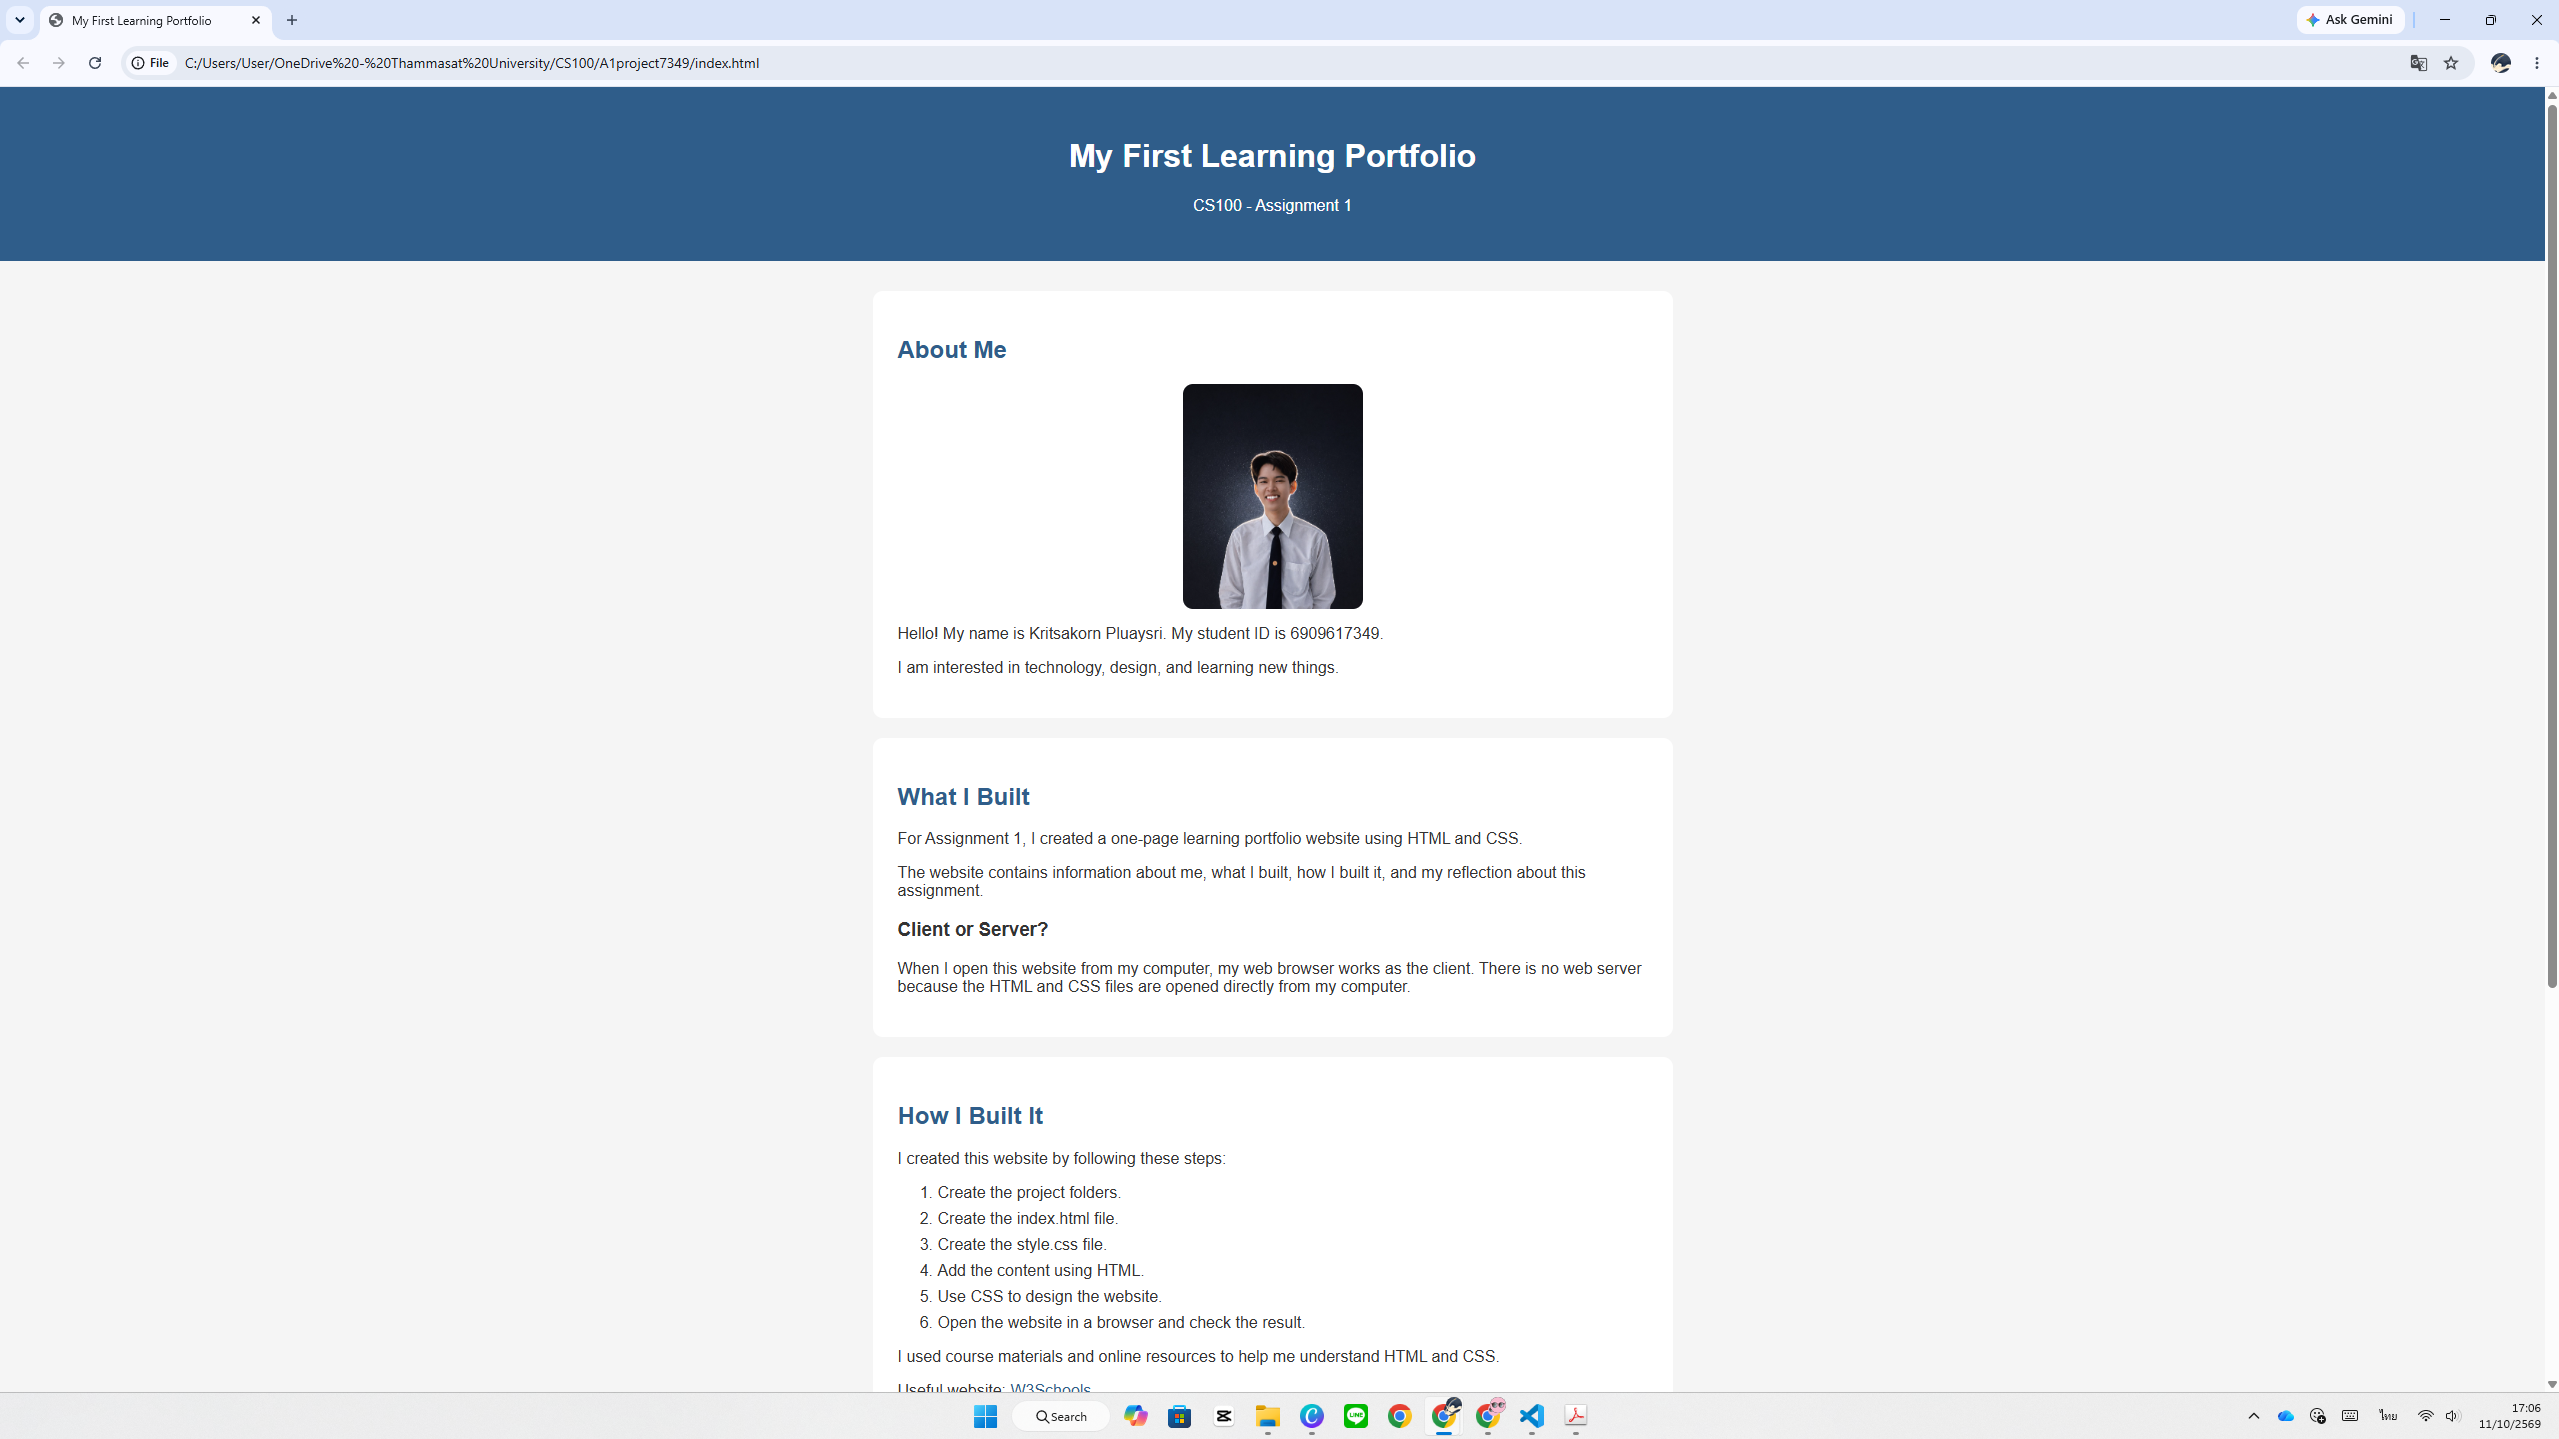
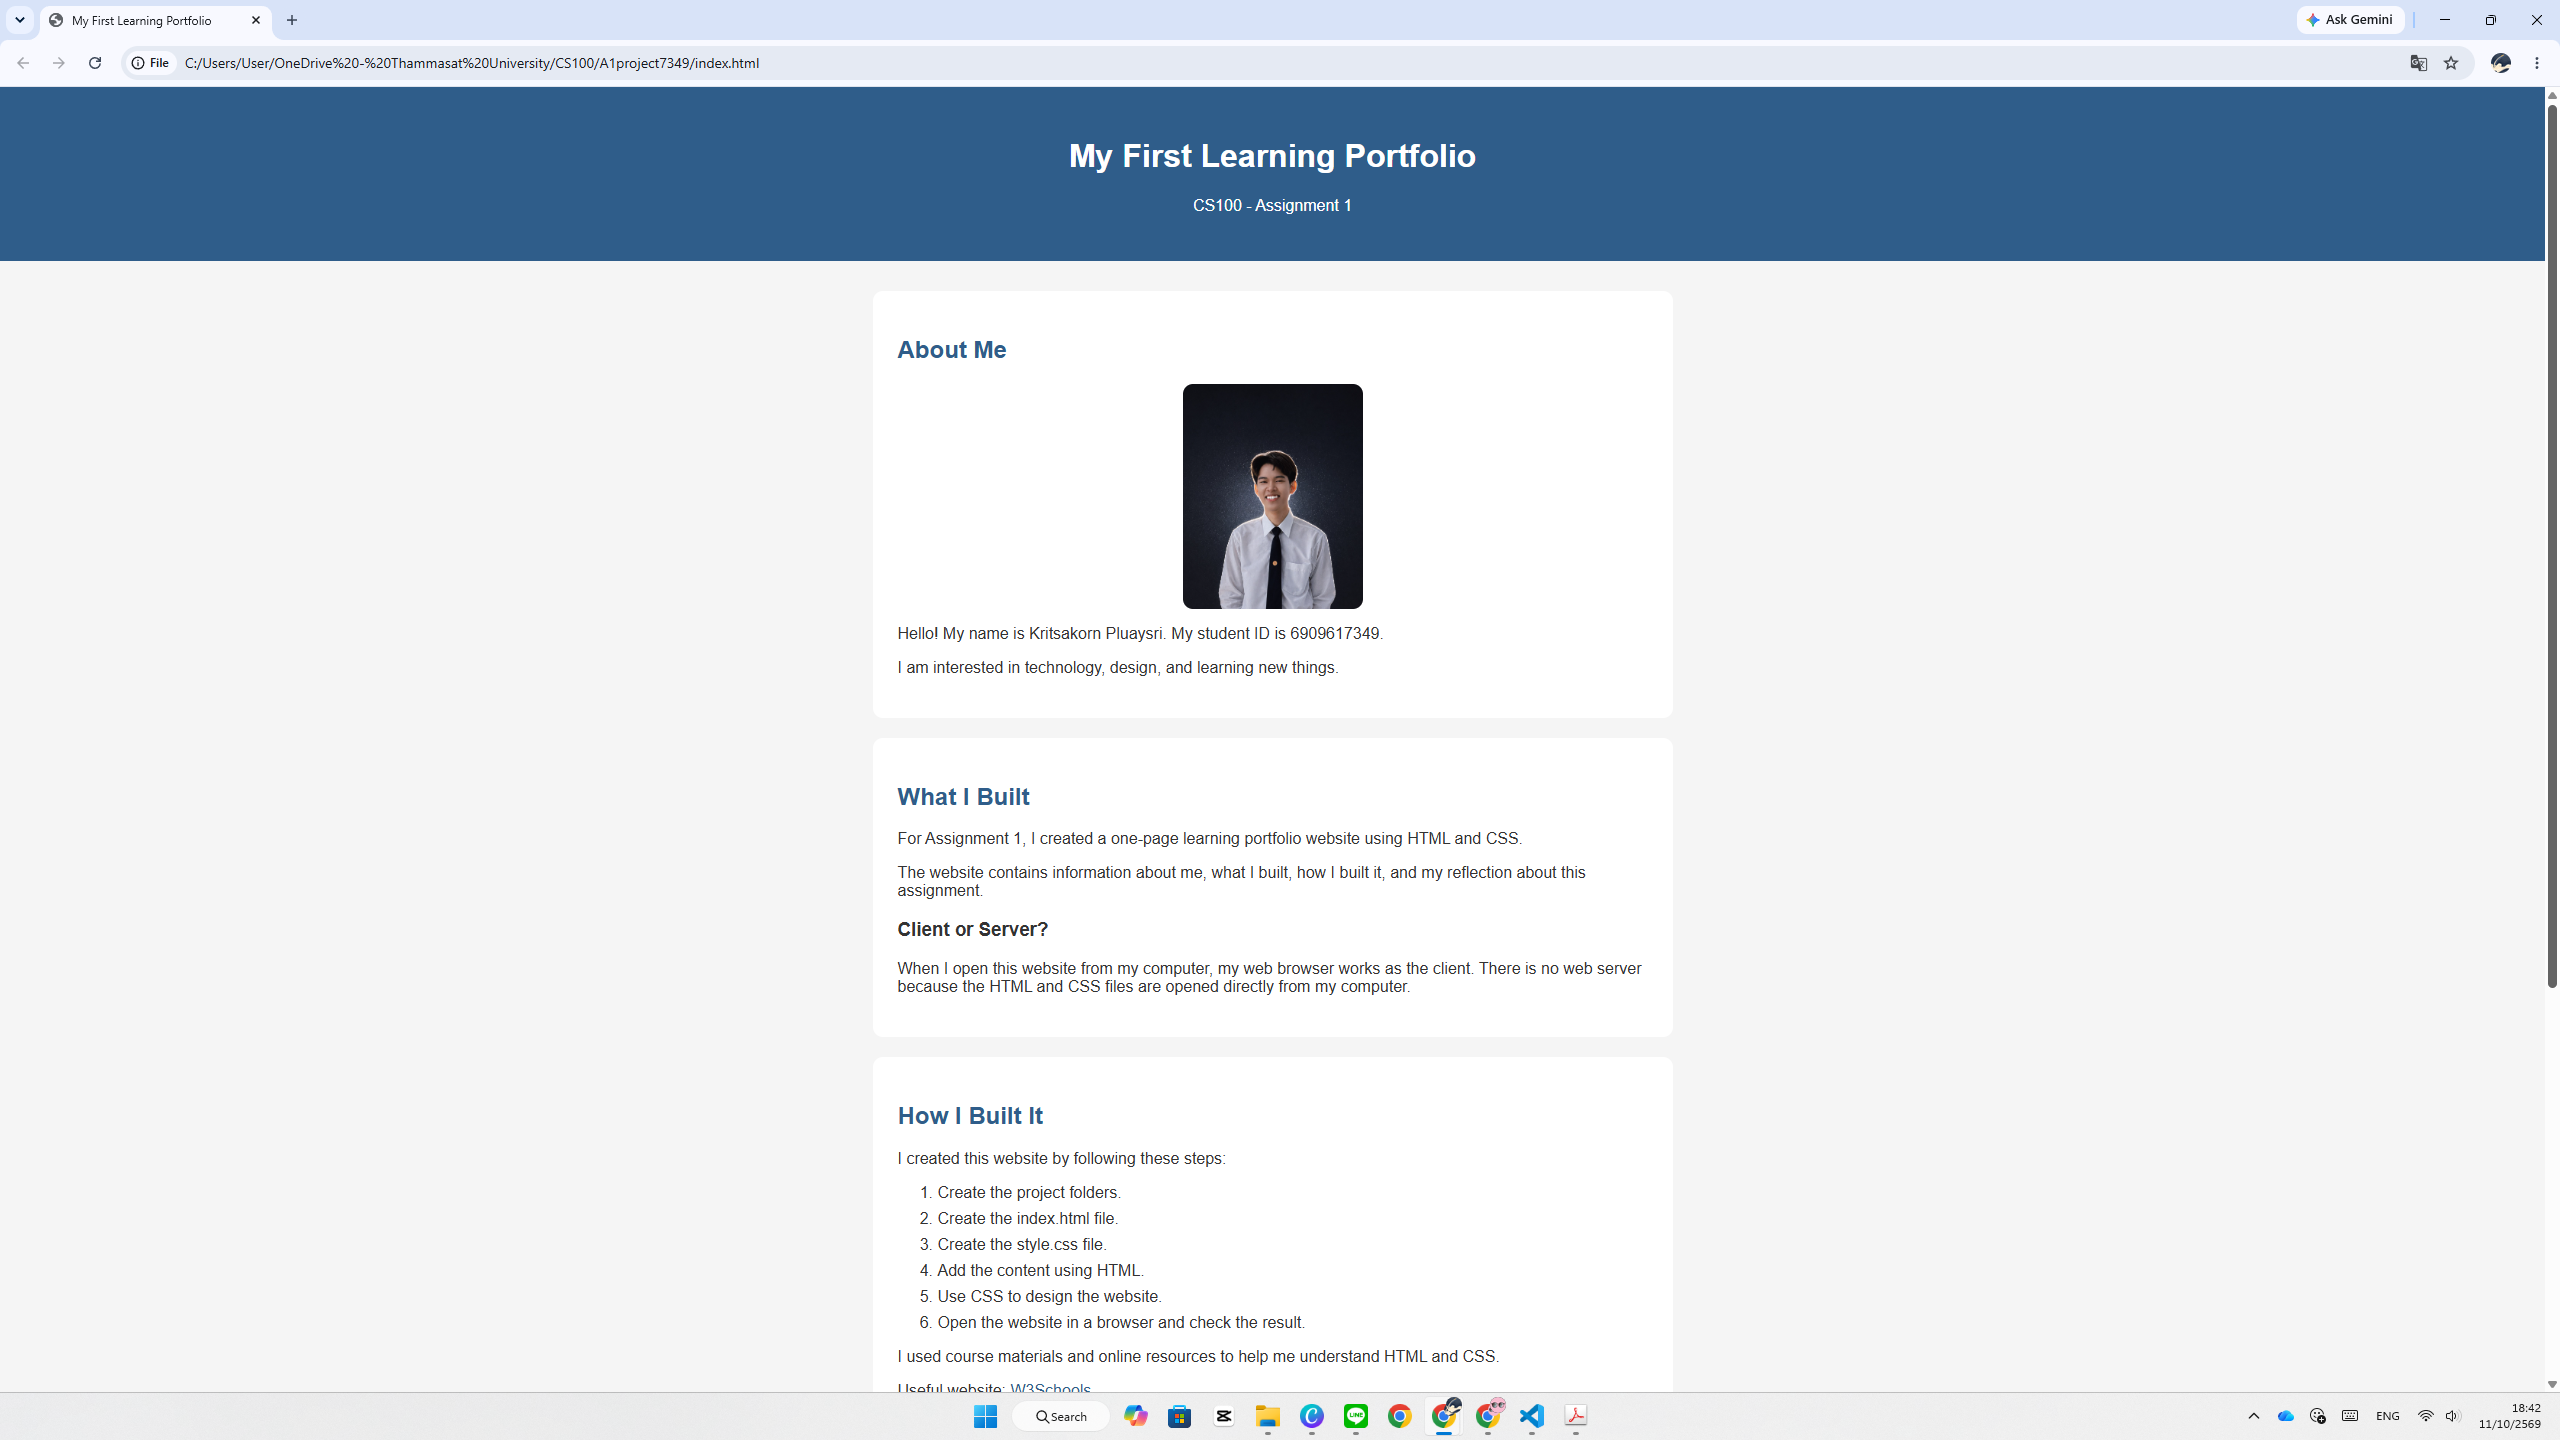
Add portfolio section #3

diff --git a/index.html b/index.html
@@ -45,6 +45,67 @@
                 </div>
             </div>
         </section>
+
+
+        <section id="portfolio" class="p-4 mb-4 shadow-sm">
+            <h2 class="mb-4">My Portfolio</h2>
+
+            <div class="row g-4">
+                <div class="col-12 col-md-6">
+                    <div class="border rounded p-3 h-100">
+                        <h3 class="h5">CS100 A1 Project</h3>
+                        <img src="media/a1-project.png" alt="A1 Project" class="img-fluid mb-3">
+
+                        <p><strong>Type:</strong> Course Assignment</p>
+                        <p><strong>Date:</strong> 30 August 2026</p>
+                        <p><strong>Role:</strong> Individual Developer</p>
+                        <p>
+                            <strong>Description:</strong>
+                            I created a one-page learning portfolio using HTML and CSS.
+                        </p>
+                        <p><strong>Skills:</strong> HTML, CSS</p>
+
+                        <h4 class="h6">Reflection</h4>
+                        <p><strong>What I did:</strong> I created my first portfolio website.</p>
+                        <p><strong>What I learned:</strong> I learned how HTML and CSS work together.</p>
+                        <p><strong>Challenge:</strong> Understanding HTML and CSS was difficult at first, so I tested my
+                            code step by step.</p>
+                        <p><strong>Next step:</strong> I want to improve the design and make the website responsive.</p>
+
+                        <p class="mb-0"><strong>Evidence:</strong> Project screenshot shown above.</p>
+                    </div>
+                </div>
+
+                <div class="col-12 col-md-6">
+                    <div class="border rounded p-3 h-100">
+                        <h3 class="h5">KBTG Techtopia</h3>
+                        <img src="media/kbtg-techtopia.jpg" alt="KBTG Techtopia" class="img-fluid mb-3">
+
+                        <p><strong>Type:</strong> Activity</p>
+                        <p><strong>Date:</strong> 16 September 2026</p>
+                        <p><strong>Role:</strong> Participant</p>
+                        <p>
+                            <strong>Description:</strong>
+                            I attended KBTG Techtopia to learn about technology and innovation.
+                        </p>
+                        <p><strong>Skills:</strong> Technology Awareness, Observation, Communication</p>
+
+                        <h4 class="h6">Reflection</h4>
+                        <p><strong>What I did:</strong> I attended the event and explored technology-related activities.
+                        </p>
+                        <p><strong>What I learned:</strong> I learned more about new technology and its real-world
+                            applications.</p>
+                        <p><strong>Challenge:</strong> Some topics were new to me, so I tried to understand them by
+                            listening and observing.</p>
+                        <p><strong>Next step:</strong> I want to learn more about technology and attend similar events.
+                        </p>
+
+                        <p class="mb-0"><strong>Evidence:</strong> Event photo shown above.</p>
+                    </div>
+                </div>
+            </div>
+        </section>
+
     </main>
 
     <footer class="text-center py-3">
